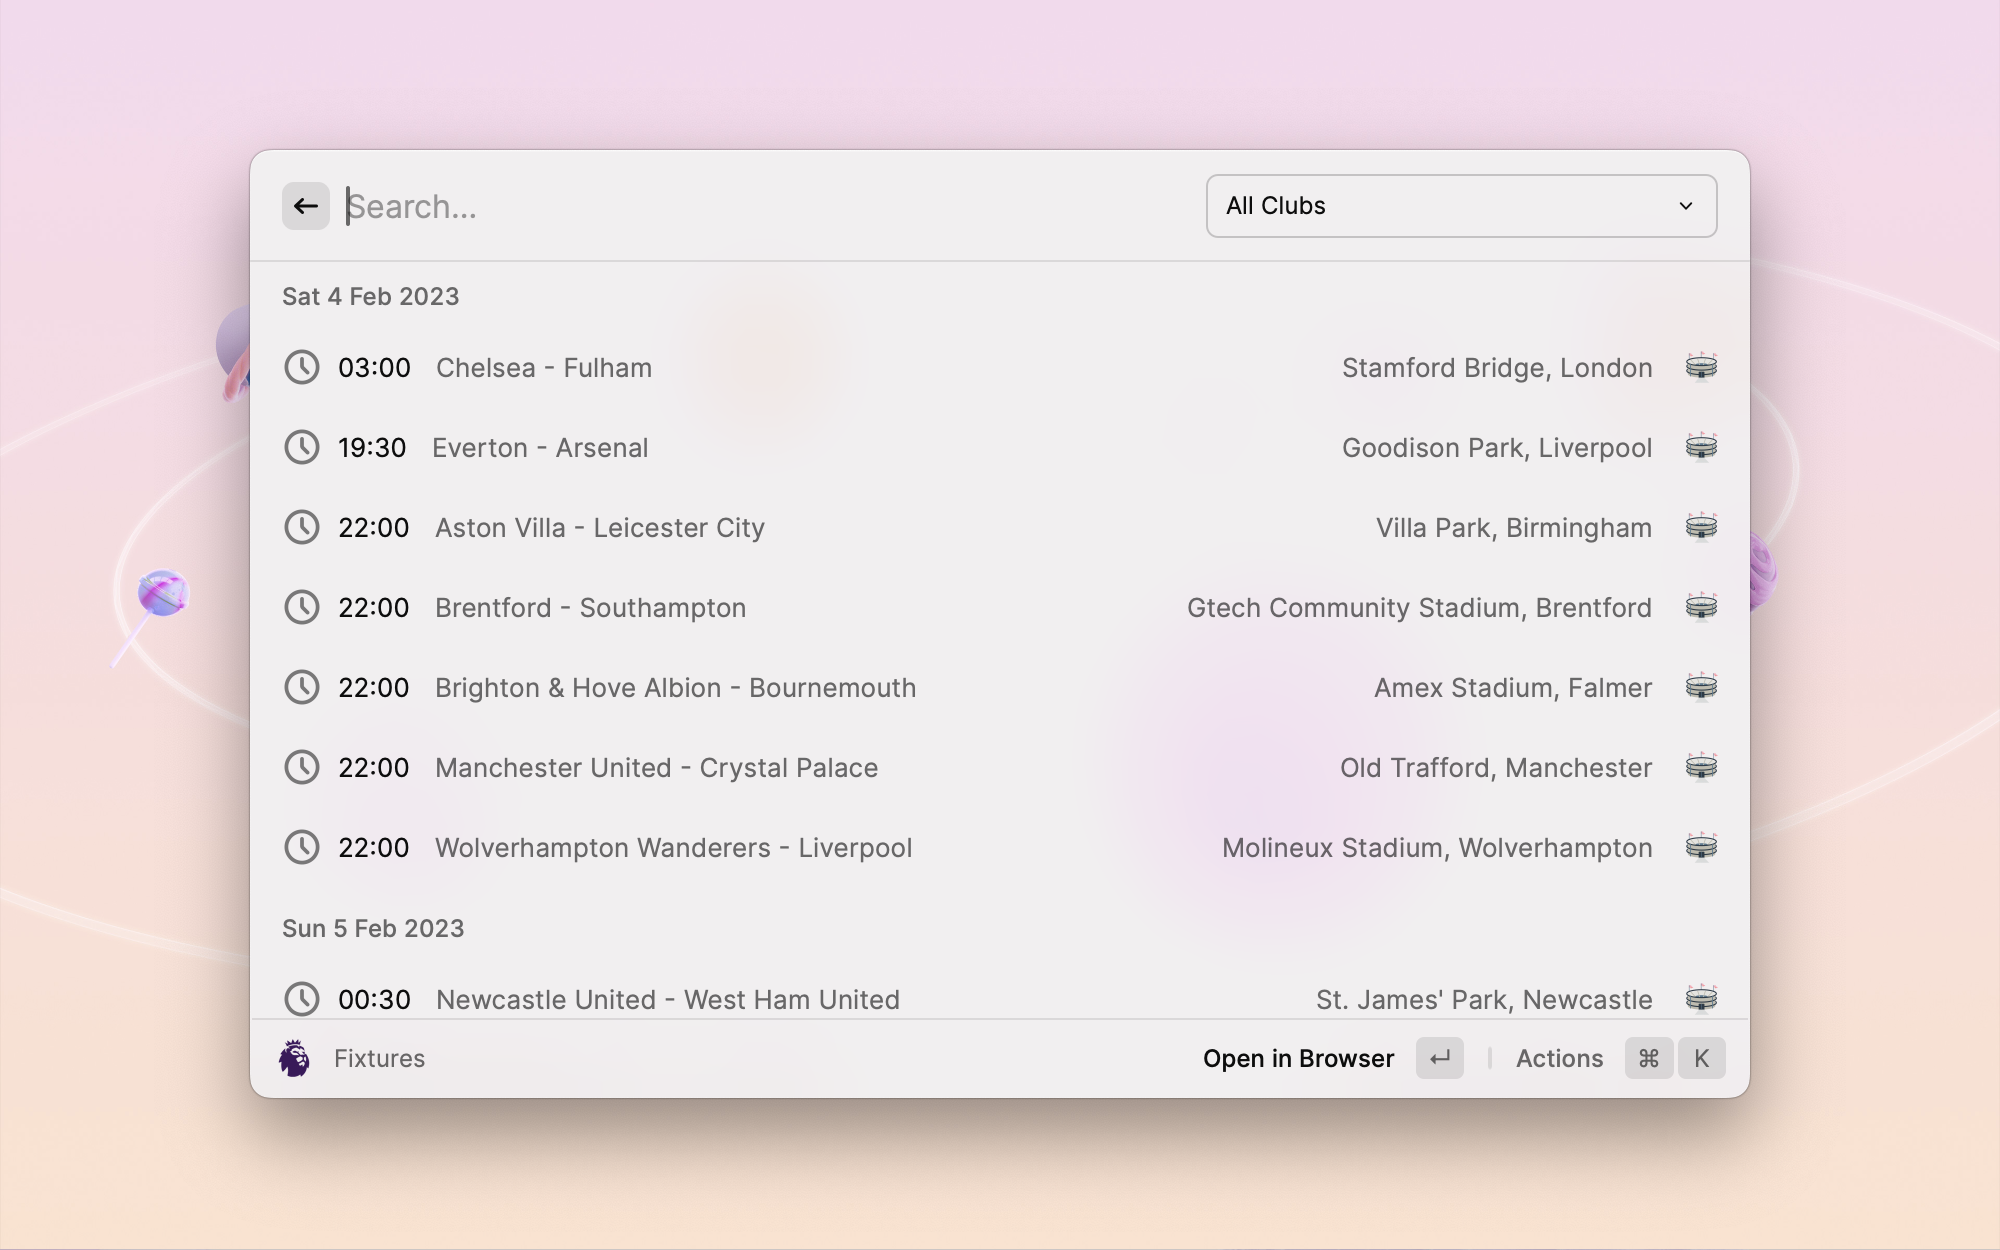
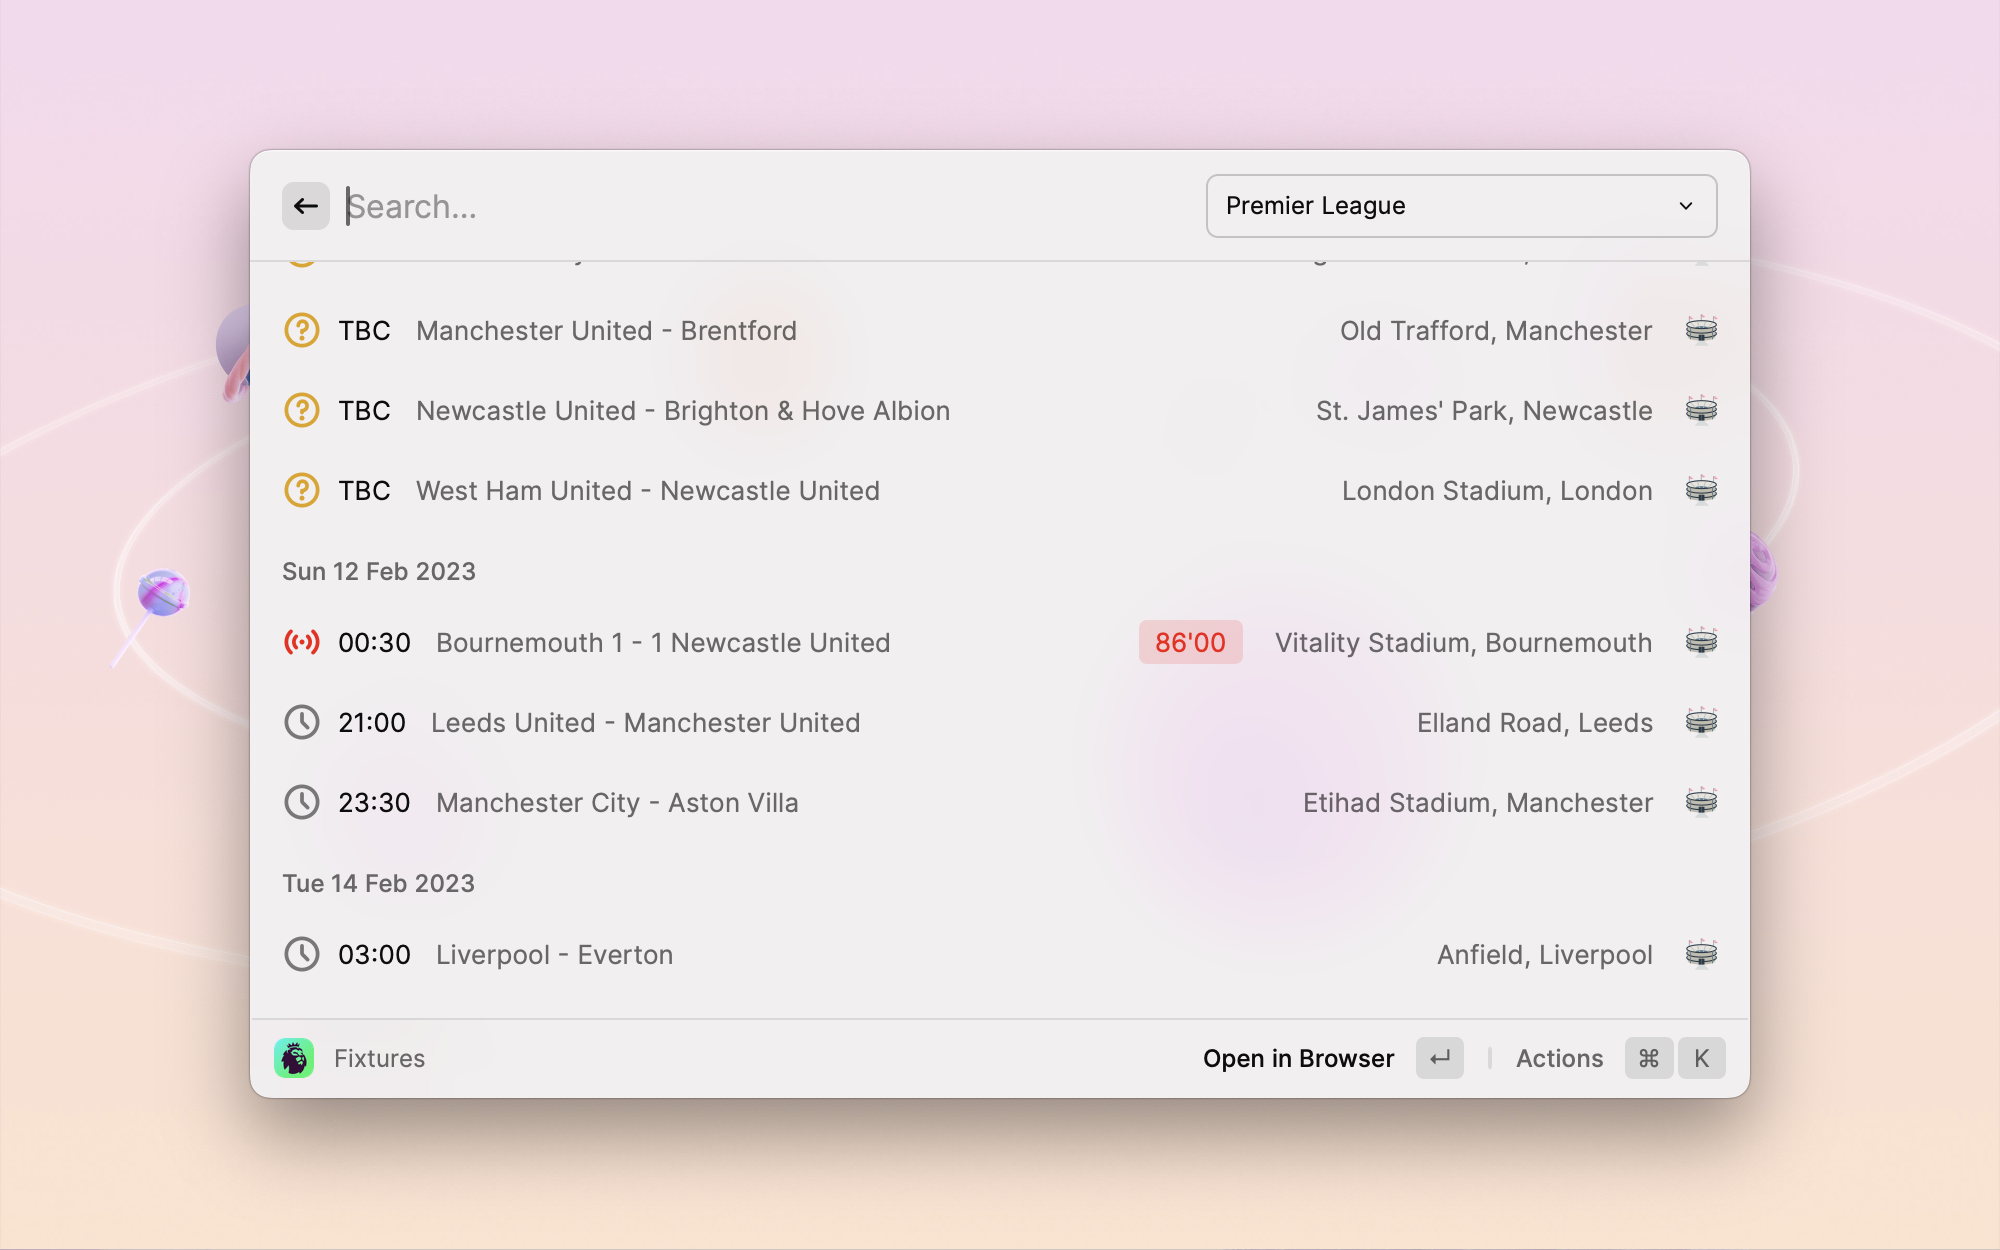
feat: live fixtures status

diff --git a/src/fixture.tsx b/src/fixture.tsx
@@ -1,8 +1,10 @@
 import {
   Action,
   ActionPanel,
+  Color,
   getPreferenceValues,
   Icon,
+  Image,
   List,
 } from "@raycast/api";
 import { useState } from "react";
@@ -65,6 +67,32 @@ export default function Fixture() {
             {matches.map((match) => {
               const time = convertToLocalTime(match.kickoff.label, "HH:mm");
 
+              let icon: Image.ImageLike;
+              if (!match.kickoff.label) {
+                icon = {
+                  source: Icon.QuestionMarkCircle,
+                  tintColor: Color.Yellow,
+                };
+              } else if (match.status === "L") {
+                icon = { source: Icon.Livestream, tintColor: Color.Red };
+              } else {
+                icon = Icon.Clock;
+              }
+
+              const accessories: List.Item.Accessory[] = [
+                { text: `${match.ground.name}, ${match.ground.city}` },
+                { icon: "stadium.svg" },
+              ];
+
+              if (match.status === "L") {
+                accessories.unshift({
+                  tag: {
+                    value: match.clock?.label,
+                    color: Color.Red,
+                  },
+                });
+              }
+
               return (
                 <List.Item
                   key={match.id}
@@ -74,11 +102,8 @@ export default function Fixture() {
                       ? `${match.teams[0].team.name} ${match.teams[0].score} - ${match.teams[1].score} ${match.teams[1].team.name}`
                       : `${match.teams[0].team.name} - ${match.teams[1].team.name}`
                   }
-                  icon={Icon.Clock}
-                  accessories={[
-                    { text: `${match.ground.name}, ${match.ground.city}` },
-                    { icon: "stadium.svg" },
-                  ]}
+                  icon={icon}
+                  accessories={accessories}
                   actions={
                     <ActionPanel>
                       <Action.OpenInBrowser

diff --git a/CHANGELOG.md b/CHANGELOG.md
@@ -1,5 +1,9 @@
 # Premier League Changelog
 
+## [Improvements] - 2023
+- Filter by Competition is default for Fixtures & Results
+- Live fixtures status
+
 ## [Improvements] - 2023-02-03
 - Add more Standings details (played, goals for/against, form, next match)
 - Fix manager image size
